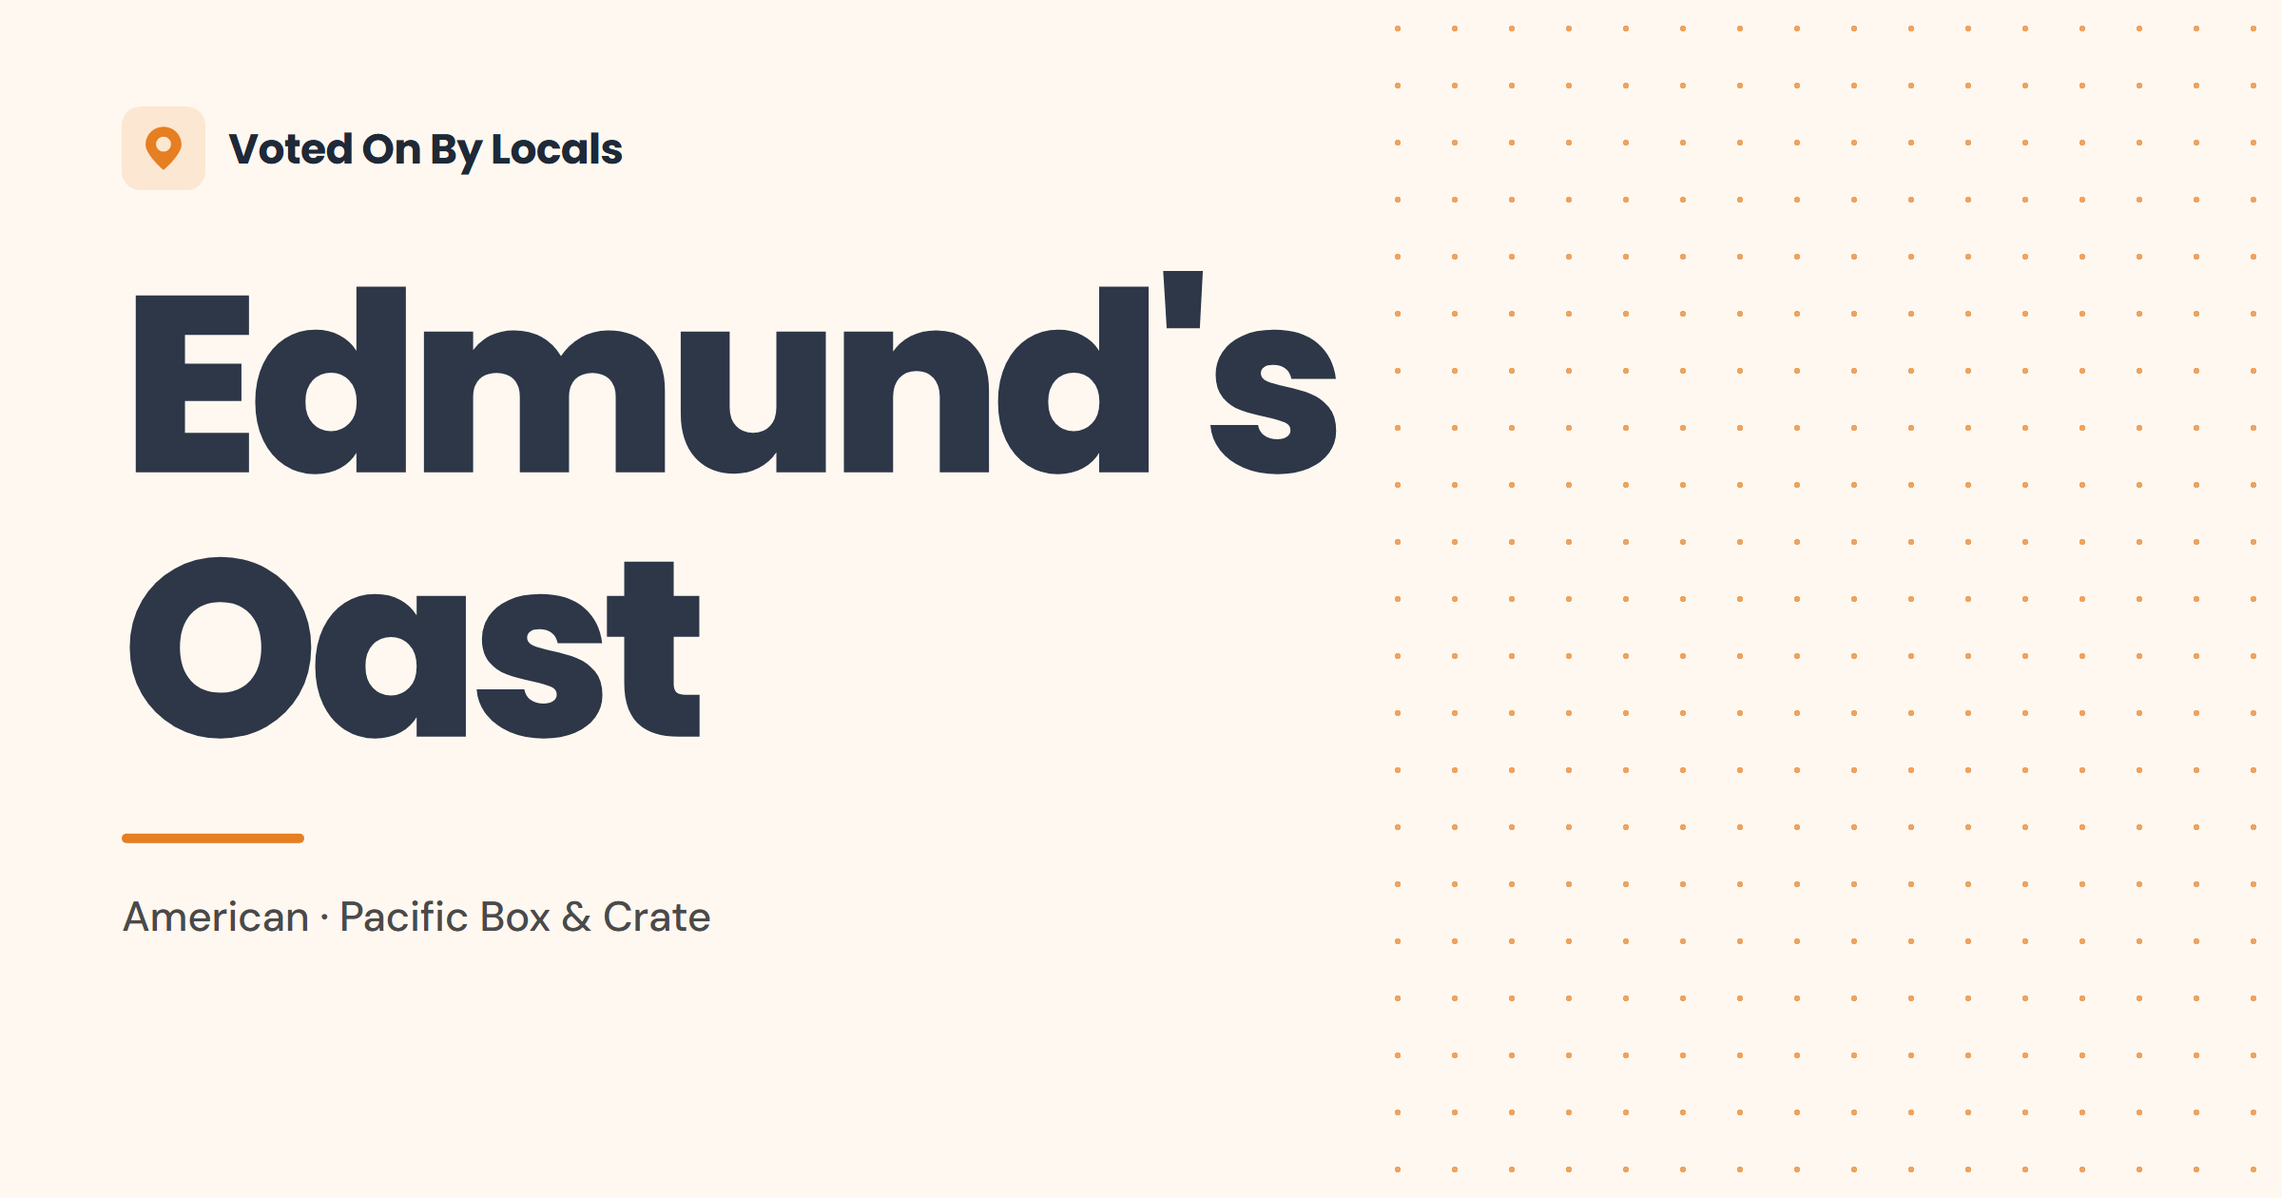
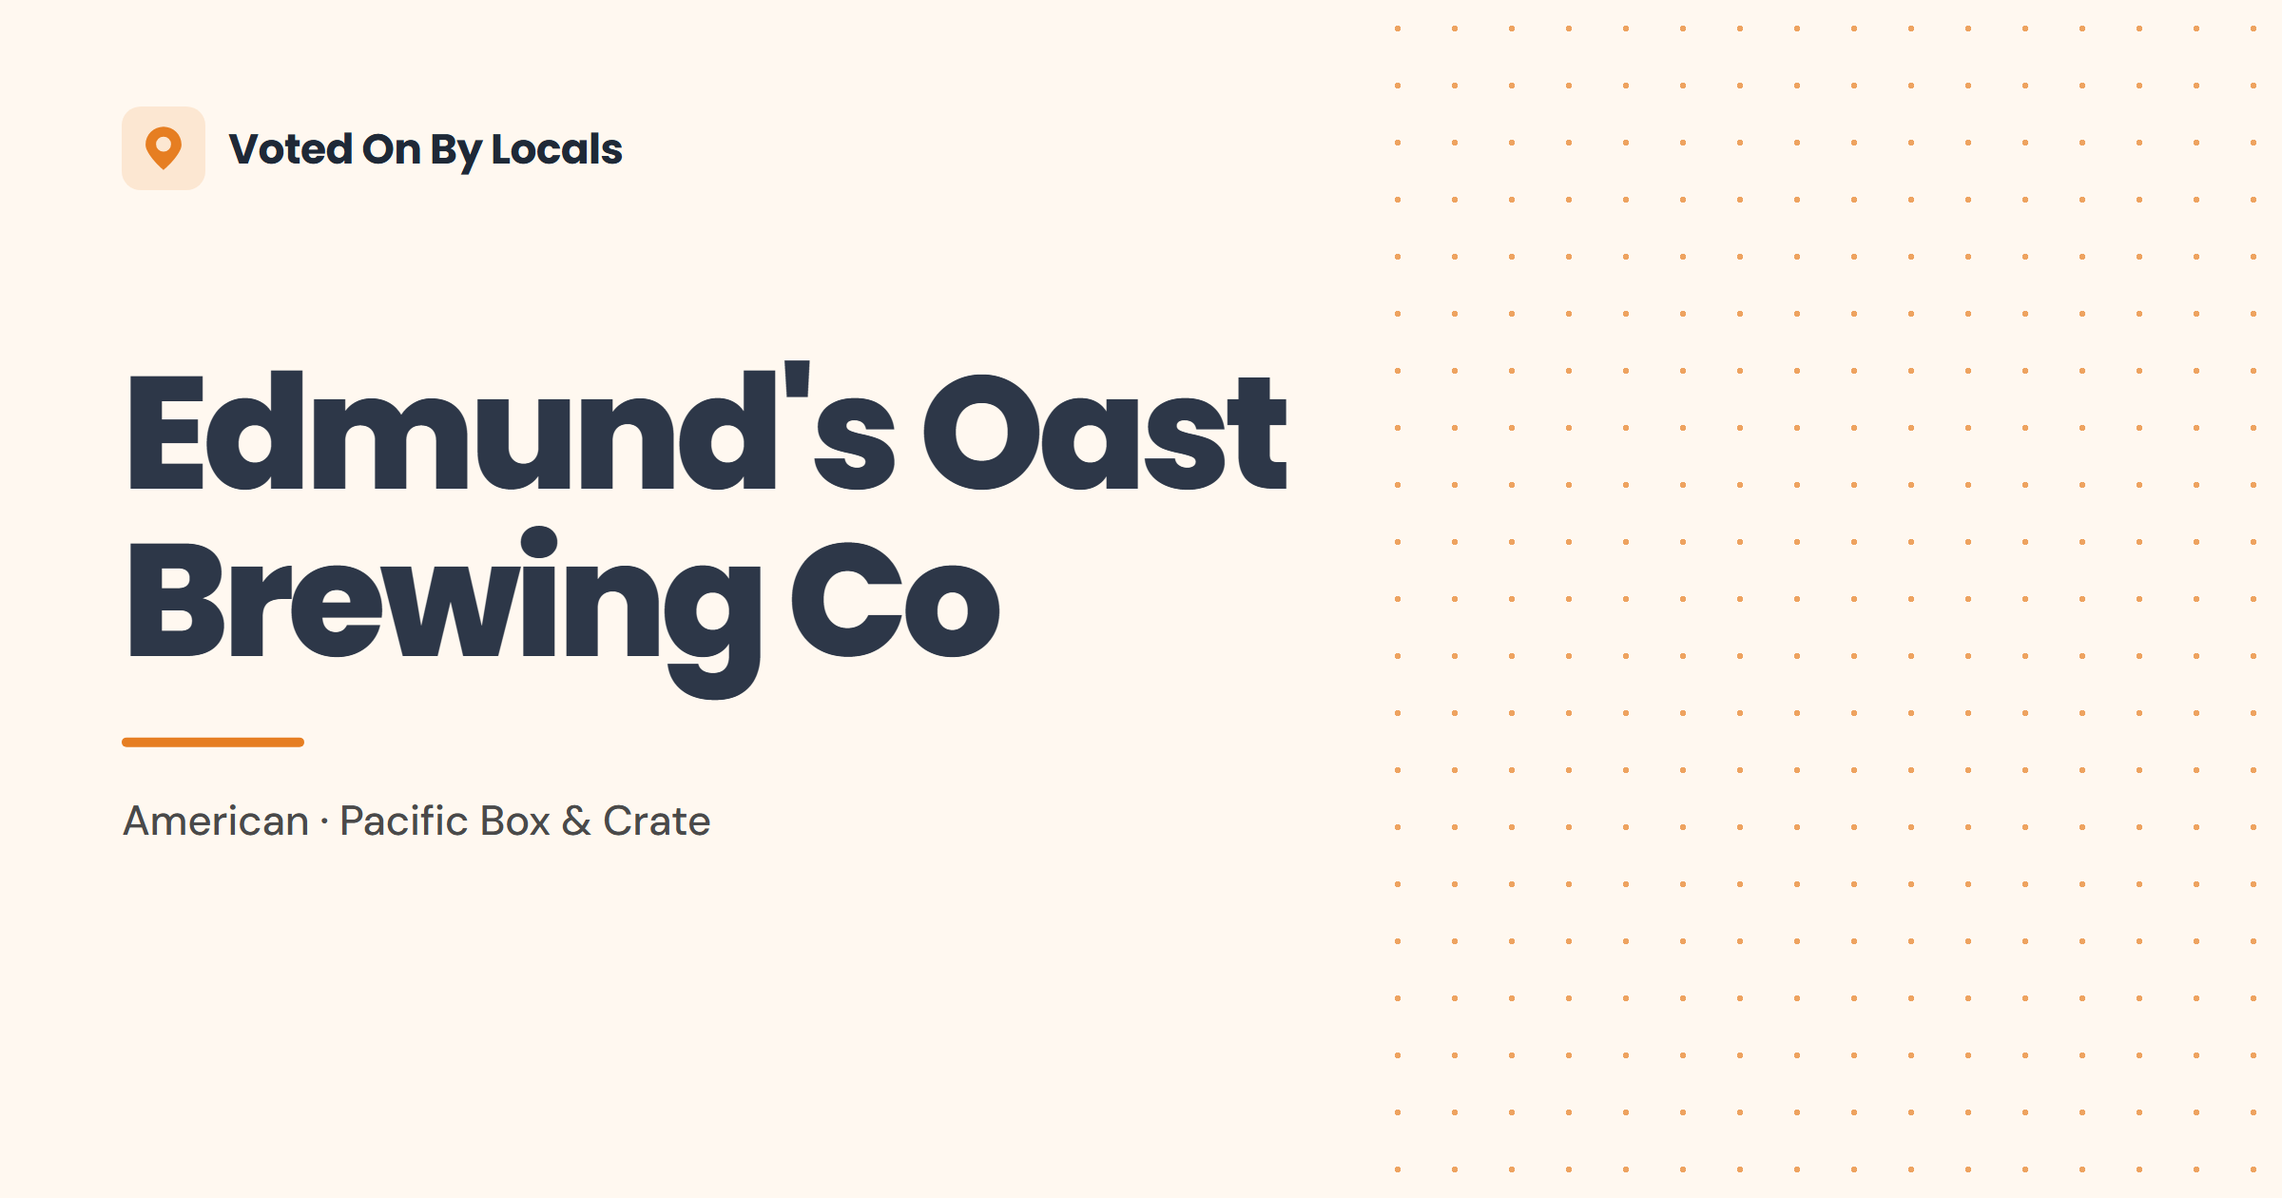
fix(data): correct edmunds-oast entity identity to the brewery (#75)
The record describes Edmund's Oast Brewing Co at 1505 King St, not the
restaurant. Address, phone, websiteURL, description, tagline, keywords and
the ranking's servesCuisine all resolve to the brewery; only `name` carried
the restaurant's identity, and that is also a truncation of the brewery's
real name. Edmund's Original (formerly Edmund's Oast) at 1081 Morrison Dr
is a separate business and is not in the tree at all.

- name             "Edmund's Oast" -> "Edmund's Oast Brewing Co"
- addressLocality  "North Charleston" -> "Charleston"

Both sourced from the business's own site, re-confirmed before writing:
edmundsoast.com carries "1505 King Street ~ Charleston S.C." and an
<address> block reading "1505 King St. #115 / Charleston, SC 29405". The
page title and its JSON-LD Organization name are both "Edmunds Oast
Brewing Co", and the domain does not redirect to the restaurant.

The slug stays `edmunds-oast`. This is not the Babas case: the slug is a
URL, not the entity, and it is a valid short form of the brewery's own
name -- so no retired slug, no manual_redirects entry, no deleted page.

Deliberately unchanged: postalCode 29405, neighborhood "Pacific Box &
Crate" (a known Convention 2 violation, deferred to the King Street
corridor pass), and description/tagline/shareTagline/keywords, which are
accurate for a brewery that runs a kitchen. No sameAs added.

Ranking: best-casual-spots position 4, unmoved. Row name and ItemList name
[…]

Changed region(s): [[0.0312, 0.2167, 0.5938, 0.65], [0.0312, 0.681, 0.3125, 0.7119], [0.0625, 0.7429, 0.3125, 0.7738]]

diff --git a/restaurants/edmunds-oast.html b/restaurants/edmunds-oast.html
@@ -15,7 +15,7 @@
     <meta name="viewport" content="width=device-width, initial-scale=1.0">
 
     <!-- SEO meta ------------------------------------------------------- -->
-    <title>Edmund's Oast — American in Charleston | Voted On By Locals</title>
+    <title>Edmund's Oast Brewing Co — American in Charleston | Voted On By Locals</title>
     <meta name="description" content="Edmund's Oast is a brewery and restaurant at Pacific Box & Crate in North Charleston, SC, known for great food alongside its house-brewed beer. Voted by Charleston locals as one of the city's best casual spots.">
     <meta name="keywords" content="Edmund's Oast Charleston, Charleston brewery, Pacific Box Crate, best casual spots Charleston SC">
 
@@ -23,7 +23,7 @@
     <link rel="canonical" href="https://votedonbylocals.com/restaurants/edmunds-oast">
 
     <!-- Open Graph ----------------------------------------------------- -->
-    <meta property="og:title" content="Edmund's Oast — American in Charleston">
+    <meta property="og:title" content="Edmund's Oast Brewing Co — American in Charleston">
     <meta property="og:description" content="Brewery plus great food, voted best casual by Charleston locals.">
     <meta property="og:type" content="website">
     <meta property="og:url" content="https://votedonbylocals.com/restaurants/edmunds-oast">
@@ -32,7 +32,7 @@
 
     <!-- Twitter card --------------------------------------------------- -->
     <meta name="twitter:card" content="summary_large_image">
-    <meta name="twitter:title" content="Edmund's Oast — American in Charleston">
+    <meta name="twitter:title" content="Edmund's Oast Brewing Co — American in Charleston">
     <meta name="twitter:description" content="Brewery plus great food, voted best casual by Charleston locals.">
     <meta name="twitter:image" content="https://votedonbylocals.com/assets/images/og-restaurant-edmunds-oast.png">
 
@@ -41,15 +41,15 @@
     {
       "@context": "https://schema.org",
       "@type": "Restaurant",
-      "name": "Edmund's Oast",
+      "name": "Edmund's Oast Brewing Co",
       "description": "Edmund's Oast is a brewery and restaurant at Pacific Box & Crate in North Charleston, SC, known for great food alongside its house-brewed beer. Voted by Charleston locals as one of the city's best casual spots.",
       "datePublished": "2026-05-03T19:03:39-04:00",
-      "dateModified": "2026-05-03T19:03:39-04:00",
+      "dateModified": "2026-09-07T12:00:00-04:00",
       "url": "https://votedonbylocals.com/restaurants/edmunds-oast",
       "address": {
         "@type": "PostalAddress",
         "streetAddress": "1505 King St #115",
-        "addressLocality": "North Charleston",
+        "addressLocality": "Charleston",
         "addressRegion": "SC",
         "postalCode": "29405",
         "addressCountry": "US"
@@ -84,7 +84,7 @@
         {
           "@type": "ListItem",
           "position": 2,
-          "name": "Edmund's Oast",
+          "name": "Edmund's Oast Brewing Co",
           "item": "https://votedonbylocals.com/restaurants/edmunds-oast"
         }
       ]
@@ -225,7 +225,7 @@
 
                 <!-- Hero h1 -->
                 <h1 class="text-4xl sm:text-5xl font-extrabold font-poppins text-brand-dark leading-tight">
-                    Edmund's Oast
+                    Edmund's Oast Brewing Co
                 </h1>
 
                 <!-- Cuisine + neighborhood subtitle -->
@@ -257,7 +257,7 @@
                         <!-- Address -->
                         <div class="mb-4">
                             <p class="text-brand-dark font-medium">1505 King St #115</p>
-                            <p class="text-brand-gray text-sm">North Charleston, SC 29405</p>
+                            <p class="text-brand-gray text-sm">Charleston, SC 29405</p>
                         </div>
 
                         <!-- Hours -->

diff --git a/rankings/best-casual-spots.html b/rankings/best-casual-spots.html
@@ -71,7 +71,7 @@
       "name": "Best Casual Spots in Charleston, SC",
       "description": "Charleston's best casual restaurants, voted on by locals. Easy-going eats from BBQ joints and breweries to Vietnamese sandwiches and Folly Beach food shacks.",
       "datePublished": "2026-01-26T07:00:29-05:00",
-      "dateModified": "2026-01-26T07:00:29-05:00",
+      "dateModified": "2026-09-07T12:00:00-04:00",
       "url": "https://votedonbylocals.com/rankings/best-casual-spots",
       "itemListElement": [
         {
@@ -124,12 +124,12 @@
           "position": 4,
           "item": {
             "@type": "Restaurant",
-            "name": "Edmund's Oast",
+            "name": "Edmund's Oast Brewing Co",
             "url": "https://votedonbylocals.com/restaurants/edmunds-oast",
             "servesCuisine": "American Brewery",
             "address": {
               "@type": "PostalAddress",
-              "addressLocality": "North Charleston",
+              "addressLocality": "Charleston",
               "addressRegion": "SC"
             }
           }
@@ -380,7 +380,7 @@
                                 <span class="text-2xl" role="img" aria-label="shaka">🤙</span>
                             </div>
                             <div class="flex-1">
-                                <h2 class="font-poppins font-bold text-xl sm:text-2xl text-brand-dark mb-1 leading-snug"><a href="/restaurants/edmunds-oast.html" class="hover:text-brand-orange transition-colors">Edmund's Oast</a></h2>
+                                <h2 class="font-poppins font-bold text-xl sm:text-2xl text-brand-dark mb-1 leading-snug"><a href="/restaurants/edmunds-oast.html" class="hover:text-brand-orange transition-colors">Edmund's Oast Brewing Co</a></h2>
                                 <p class="text-brand-gray font-medium text-sm sm:text-base">Brewery, Great Food</p>
                             </div>
                         </div>

diff --git a/_strategy/TRACKED.md b/_strategy/TRACKED.md
@@ -62,11 +62,11 @@ Each is a single data update to a multi-location restaurant's `locations[]` arra
 ### Cuisine dedup follow-ups (2 items)
 
 - **Editorial review of `description` + `shareTagline` cuisine redundancy across the 9 dedup-affected restaurants.** Mechanical display surfaces (titles, og:title, twitter:title, hero subtitle, OG image meta-line) handled by `displayCuisine` + auto-detect (this PR); hand-authored prose fields (`description`, `shareTagline`) may still contain redundant cuisine words by editorial choice. Pass through when next editing those fields, or never if redundancy reads as natural prose. (Tutti's editorial fields were rewritten in the same PR — those fields explicitly contradicted the cuisine factual correction, which is hard inconsistency rather than benign redundancy. Other 8 are open for incremental review.)
-- **Cuisine specificity editorial review (2 borderline cases).** Two entries carry generic cuisine labels that could be refined to more specific accurate terms — editorial calls about specificity, not factual mismatches: FIG (cuisine "American" → could refine to "Modern American" per Wikipedia + Indigo Road framing); Edmund's Oast (cuisine "American" → could refine to "New American" per Indigo Road framing; resolves alongside the Edmund's Original rebrand follow-up below). Trigger: editorial review pass when next editing these entries. (Bar Weems was the third case; its clause is retired — refined "Japanese" → "Ramen" on 2026-08-26, see Resolved.)
+- **Cuisine specificity editorial review (2 borderline cases).** Two entries carry generic cuisine labels that could be refined to more specific accurate terms — editorial calls about specificity, not factual mismatches: FIG (cuisine "American" → could refine to "Modern American" per Wikipedia + Indigo Road framing); Edmund's Oast Brewing Co (cuisine "American" → could refine to "New American"; **the previous "per Indigo Road framing" rationale is retired — Indigo Road owns the Morrison Drive restaurant, not this King Street brewery, so that framing never applied to this record**, and the rebrand follow-up it pointed at has been replaced, see the brand-identity item below). Trigger: editorial review pass when next editing these entries. (Bar Weems was the third case; its clause is retired — refined "Japanese" → "Ramen" on 2026-08-26, see Resolved.)
 
 ### Brand identity follow-ups (1 item)
 
-- **Edmund's Oast → Edmund's Original rebrand (Tutti-class editorial cascade).** The restaurant was renamed "Edmund's Original"; "Edmund's Oast Brewing Co." is now a separate brewery taproom entity at 1505 King St (still operating under that name). The schema entry for slug `edmunds-oast` carries the stale brand name on the `name` field. Tutti-precedent editorial cascade required: `name`, page `<title>`, OG meta-line, `tagline`, `shareTagline`, `description`, `keywords`; reconsider `displayCuisine` (currently null; cuisine field is "American", possibly refine to "New American" — see related "Cuisine specificity editorial review" entry above). Slug stays `edmunds-oast` to preserve canonical URLs and inbound links. Discovered 2026-05-05 during the cuisine values audit. Trigger: when next editing this entry, or proactively if Indigo Road / Edmund's PR surfaces the rename publicly.
+- **`edmunds-oast` is the BREWERY, not the restaurant. The previous item here prescribed renaming it to "Edmund's Original"; that prescription was wrong and has been replaced rather than closed.** Applying it would have put a restaurant's name on a different company's address, phone and website. The 2026-09-07 audit read every field: `address` (1505 King St #115), `phone` (+1-843-718-3224) and `websiteURL` (edmundsoast.com) all resolve to **Edmund's Oast Brewing Co**, and the phone and street address match that site exactly; `edmundsoast.com` now serves the brewery (page title and JSON-LD Organization name are both "Edmunds Oast Brewing Co") and does **not** redirect to the restaurant. `description`, `tagline`, `keywords` and the ranking's `servesCuisine: "American Brewery"` are all brewery-shaped too. Only `name` carried the restaurant's identity, and even that is a legitimate truncation of the brewery's real name. **Fixed 2026-09-07:** `name` → "Edmund's Oast Brewing Co", `addressLocality` → "Charleston". **The slug stays `edmunds-oast` — deliberately.** This is not the Babas case: the slug is a URL, not the entity, and it is a valid short form of the brewery's own name, so there is no retired slug, no `manual_redirects.txt` entry and no deleted page. **Still open, deliberately left by the operator:** the prose still reads "Edmund's Oast is a brewery and restaurant at Pacific Box & Crate in **North Charleston**, SC" — both the bare old name and a locality the address field no longer agrees with. That is a DECISIONS #18 prose cascade of the `bar-weems` kind, scoped out of the correction PR on purpose. **Trigger: next edit to this entry, or the King Street corridor pass, whichever lands first.** Corroboration that these are two businesses: Indigo Road acquired the Morrison Drive restaurant as its 34th, and Edmund's Oast Brewing Co. was explicitly not part of that transaction.
 
 ### Generator follow-ups (1 item)
 
@@ -265,6 +265,19 @@ registry wiring are a separate follow-up PR.
 - **`pink-cactus` ships `hours: null` because the business's own site contradicts itself.** pinkcactuschs.com states two different schedules on the same site: the menu page gives Tue-Thu 11-3 and 5-10, Fri-Sat 11-3 and 5-11, Sun 11-3 and 5-10, Monday closed; the site footer gives Sun-Wed 4-10 and Thu-Sat 12-10. These disagree on the opening time, the split-service structure **and** which day is dark. This is a cleaner #13.10 case than the usual one -- the conflict is not between an own site and third parties but **inside the own site**, so there is no surface hierarchy to appeal to. `openingHours` stays null and `hoursHumanReadable` carries the canonical fallback pointing at the site and phone. The address is the own site's ("100 Spring Street, Charleston, SC, 29403"), which also settles a minor divergence -- Yelp carries "100 A Spring St" -- in favour of the unsuffixed form. **Trigger: the own site reconciling its two schedules.**
 
 - **`pink-cactus` takes `Cannonborough-Elliotborough`, and Spring Street carries two values in the tree.** 100 Spring St sits between `weltons-tiny-bakeshop`-adjacent territory and the existing Spring Street entries, and the tree is not internally consistent on that street: **162 Spring St ships `Cannonborough-Elliotborough`** while **33 Spring St ships `Cannonborough`**. The hyphenated form is the dominant value across the neighbourhood generally (11 Cannon St, 162 Spring St, 229 St Philip St, 252 Coming St #A, 41 Bogard St #A all use it) against a single use of the bare form, so `pink-cactus` follows the majority. **The 33 Spring St outlier is the real finding** and is the same class as the `tutti-pizza` Westside item above: one street, two neighborhood strings, no source contradicting either. Not fixed here -- that entry receives no edit in this PR and nothing stamps freshness over it. **Trigger: next edit to the 33 Spring St entry.**
+
+---
+
+### Findings from the edmunds-oast entity correction (3 items)
+
+Filed 2026-09-07 by the `edmunds-oast` entity-identity PR. The rename itself and
+the prose cascade left behind it are recorded on the brand-identity item above.
+
+- **`edmunds-oast`'s `postalCode` 29405 IS first-party sourced — this corrects the 2026-09-07 audit, which reported it as unsourced.** The audit looked for a JSON-LD `PostalAddress` node and a narrow visible-text pattern on edmundsoast.com, found neither, and concluded the site states no ZIP anywhere. It does: a plain `<address>` element carries `1505 King St. #115` / `Charleston, SC 29405`. So **all three address fields — `streetAddress`, `addressLocality` and `postalCode` — are confirmed against the business's own site**, which is the strongest provenance Convention 1 asks for, and there is no gap to track. Recorded because the audit's wrong finding was circulated before this PR, and because the extraction bug is worth remembering: **an address in a bare `<address>` tag is invisible to a JSON-LD-only sweep.** Any future first-party provenance pass should read visible address blocks, not just structured data.
+
+- **`edmunds-oast` still ships `neighborhood: "Pacific Box & Crate"`, a known Convention 2 violation, deliberately deferred.** Convention 2 (established 2026-09-07) says `neighborhood` must be a real Charleston-area neighborhood, never a development, complex, shopping-centre or landlord brand; Pacific Box & Crate is a mixed-use development and is the tree's **only** unambiguous violation of it. It was not fixed in the entity-correction PR because **the right replacement cannot be chosen for one record in isolation.** King Street carries ten records across five neighborhood values, including two conflicts tighter than this one: `tutti-pizza` (Westside) and `graft-wine-shop` (Upper King) are **suites A and B of the same building** at 700 King St, and `the-harbinger-cafe-bakery` (North Central) and `ok-donna` (Upper King) sit ten street numbers apart at 1107 and 1117. Picking a value for 1505 without resolving those would just add a sixth. Note also that `description` and `keywords` name the development in prose, which Convention 2 permits — only the FIELD is constrained. **Trigger: the King Street corridor PR.**
+
+- **Edmund's Original — the restaurant — is absent from the tree entirely, and is a new-entry decision, not a fix to this record.** 1081 Morrison Dr, Charleston, SC 29403; edmundsoriginal.com; (843) 727-1145; formerly Edmund's Oast Restaurant, now Indigo Road's 34th and a true brewpub with its own beer lineup distinct from the Brewing Company's. It won two Best of Charleston 2026 categories under the new name, so it is a live candidate rather than a completeness chore. It appears on **no** ranking and has **no** record. Deliberately out of scope for the entity-correction PR, which fixed what one record says about one business rather than adding a second. **Trigger: the next ranking whose category it fits** — at which point it is a net-new entry on the normal sourcing path, and the `edmunds-oast` record must NOT be repointed at it.
 
 ---
 
